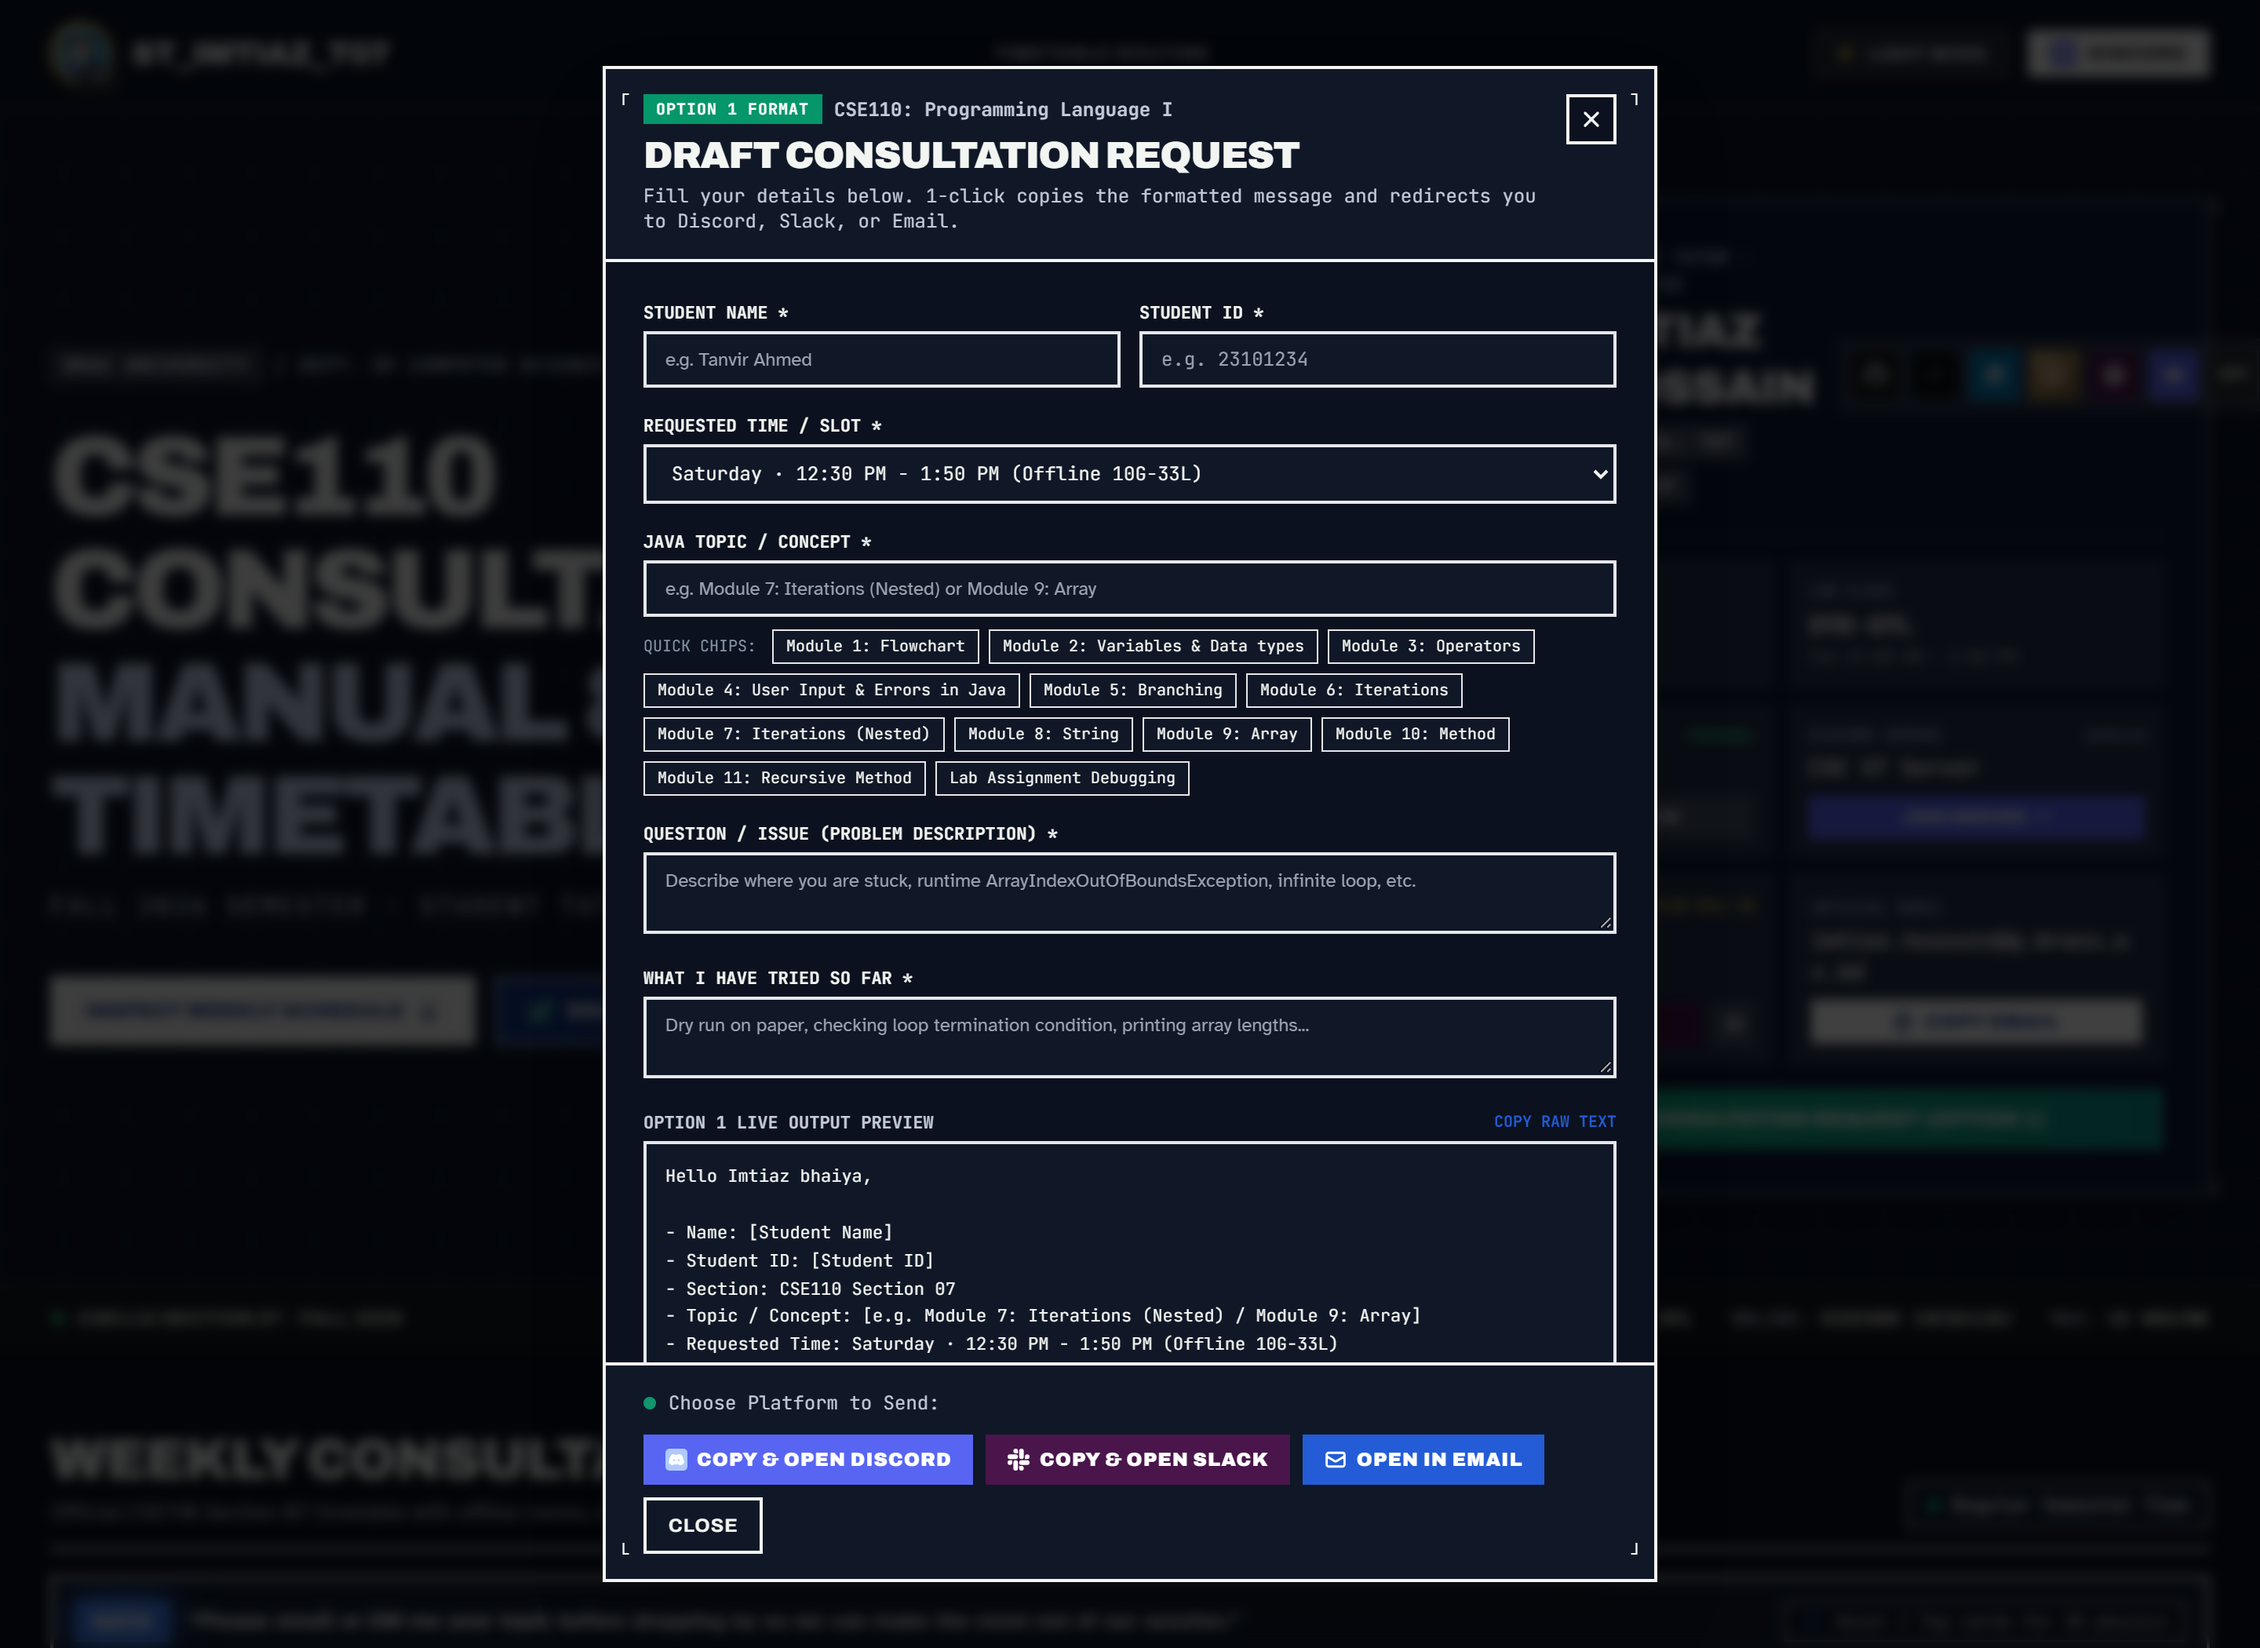
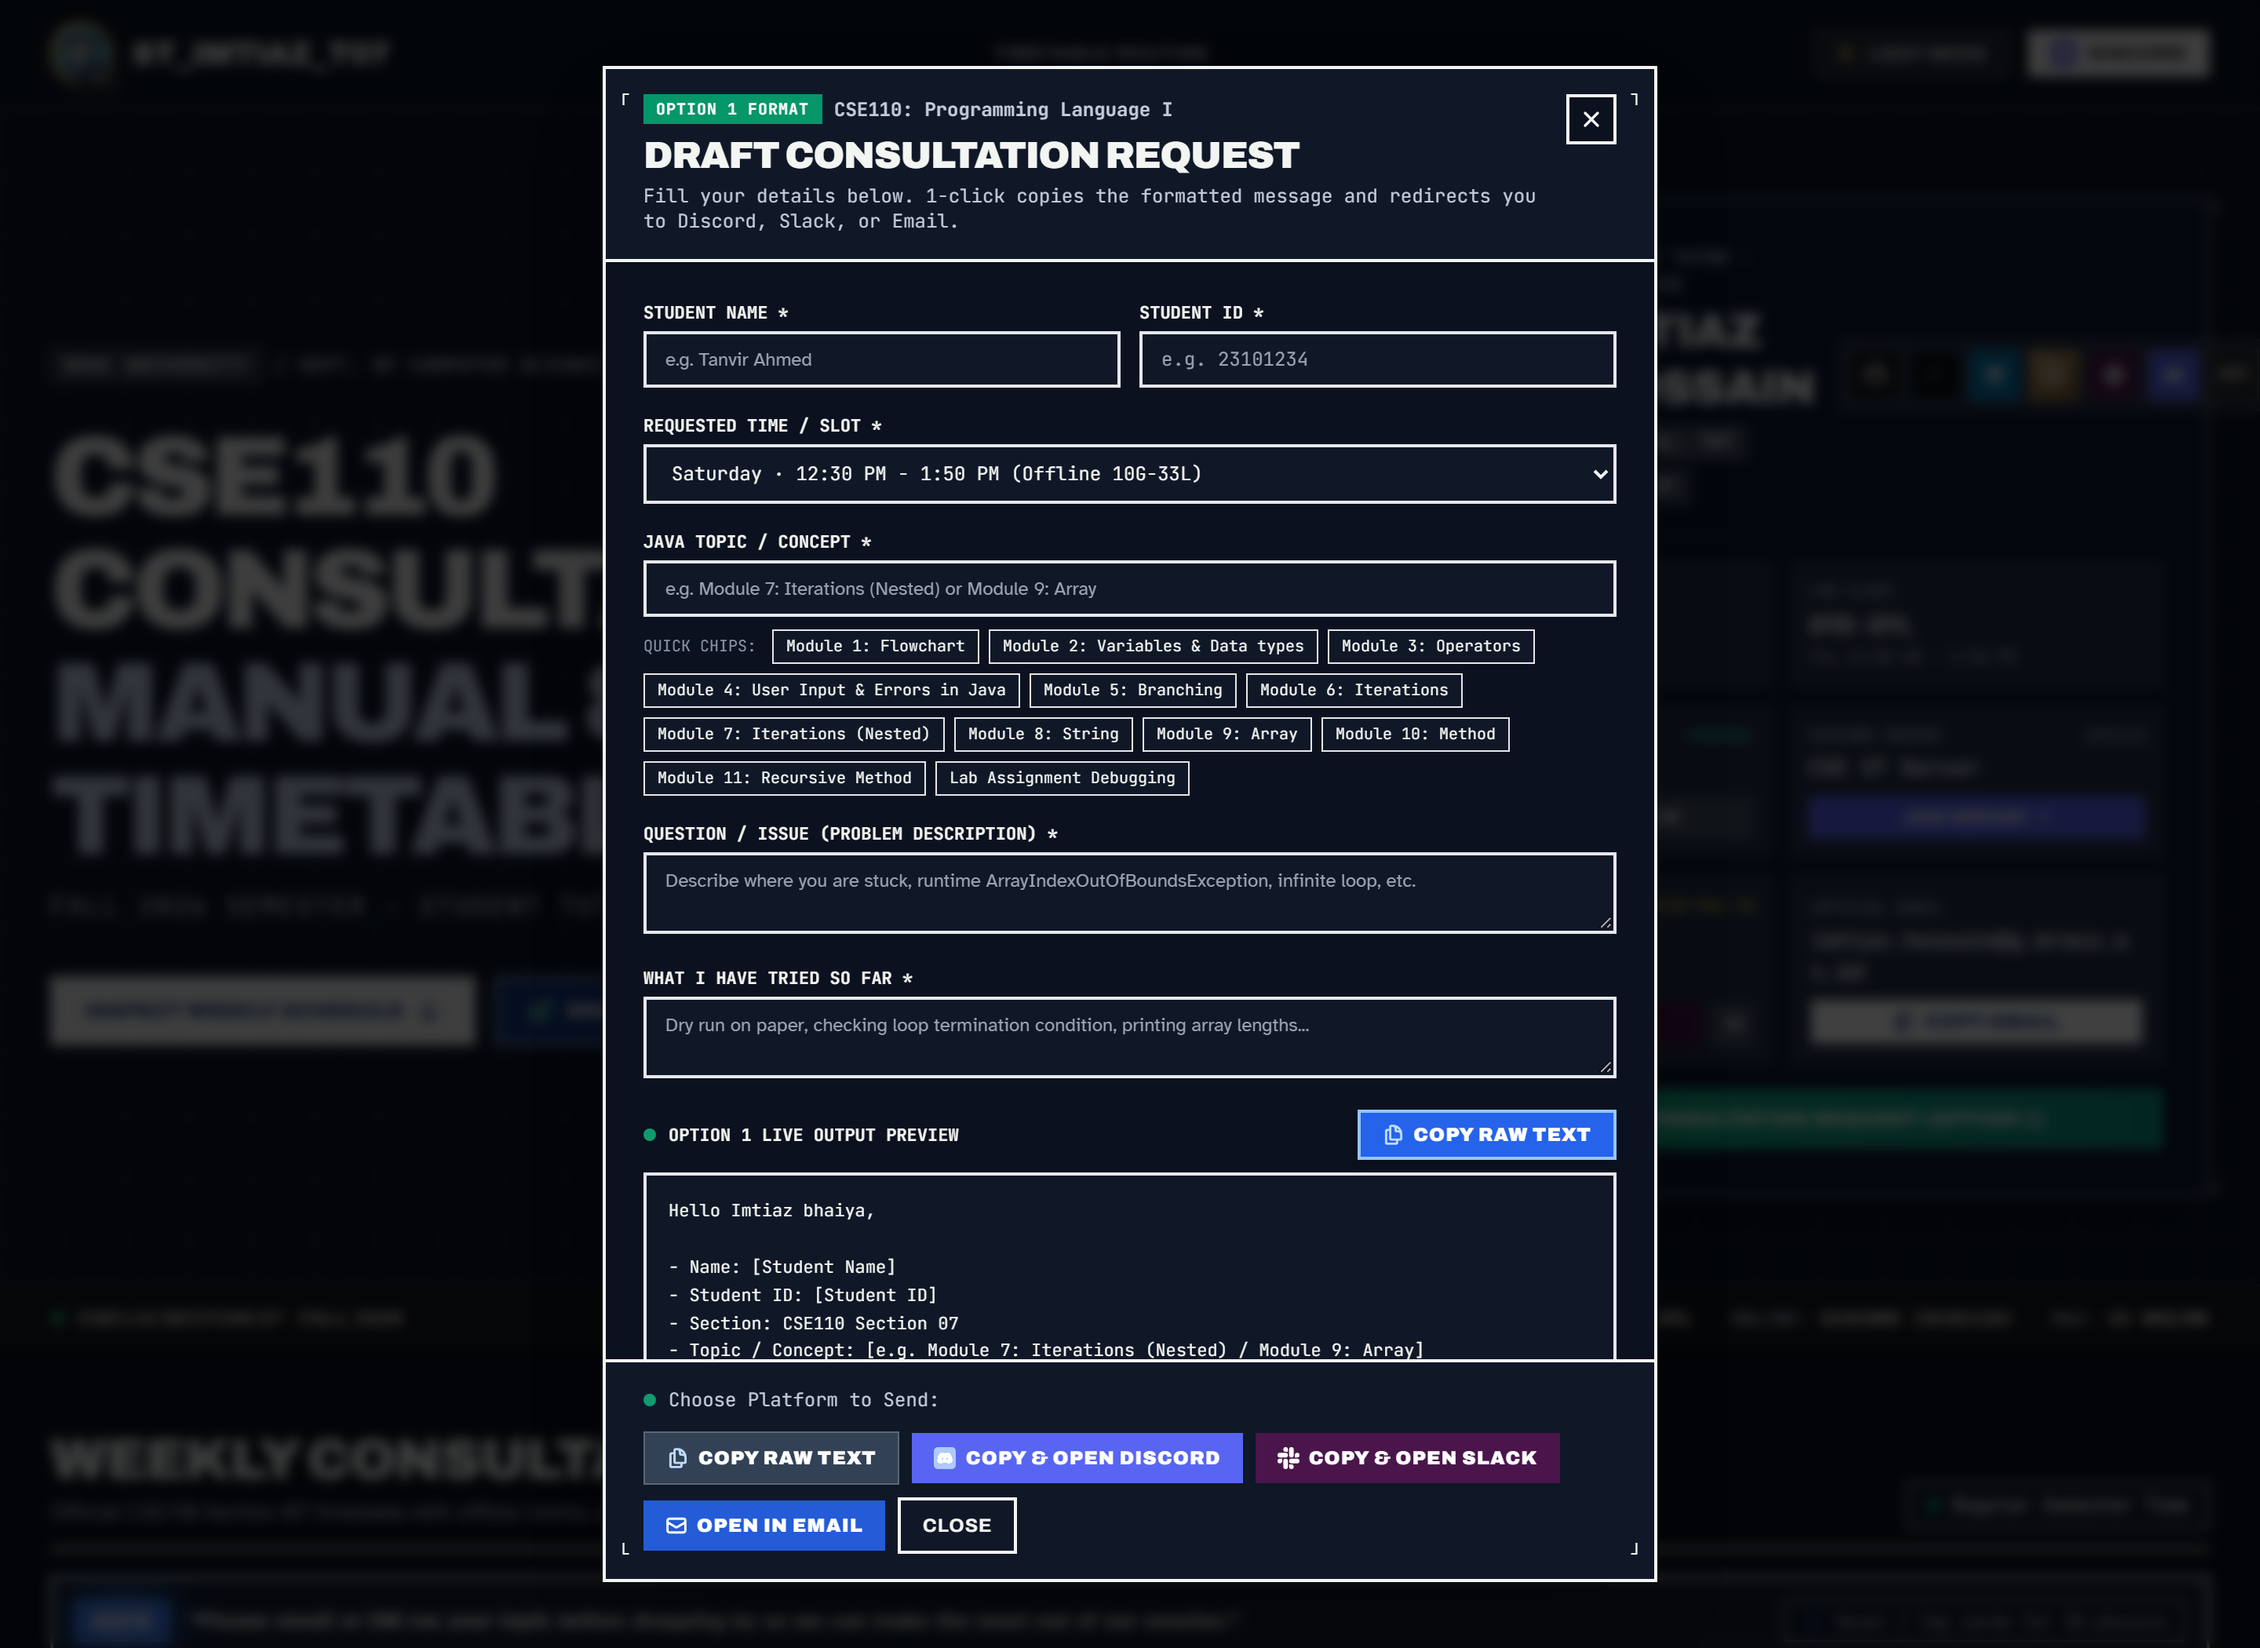
style: enhance visibility and styling of Copy Raw Text action button

Changed region(s): [[0.2812, 0.681, 0.7188, 0.9595], [0.5938, 0.65, 0.7188, 0.7119]]

diff --git a/src/App.tsx b/src/App.tsx
@@ -318,6 +318,7 @@ export default function App() {
   const [copiedEmail, setCopiedEmail] = useState(false);
   const [copiedDiscordId, setCopiedDiscordId] = useState(false);
   const [copiedSlackId, setCopiedSlackId] = useState(false);
+  const [copiedRawText, setCopiedRawText] = useState(false);
   const [copiedModalDiscordId, setCopiedModalDiscordId] = useState(false);
   const [copiedModalRoom, setCopiedModalRoom] = useState(false);
   const [mobileTab, setMobileTab] = useState<'cards' | 'table'>('cards');
@@ -370,7 +371,9 @@ export default function App() {
   const handleCopyOption1Text = () => {
     const text = generateOption1Message();
     navigator.clipboard.writeText(text);
+    setCopiedRawText(true);
     triggerToast('Copied Option 1 template to clipboard!');
+    setTimeout(() => setCopiedRawText(false), 2200);
   };
 
   const handleSendDiscord = () => {
@@ -1593,19 +1596,35 @@ export default function App() {
 
                 {/* Live Message Preview Box */}
                 <div>
-                  <div className="flex items-center justify-between mb-1">
-                    <span className="font-mono font-bold uppercase text-[11px] text-[var(--ink-2)]">
-                      Option 1 Live Output Preview
-                    </span>
+                  <div className="flex items-center justify-between mb-2">
+                    <div className="flex items-center gap-2">
+                      <span className="w-2 h-2 rounded-full bg-emerald-500 animate-pulse" />
+                      <span className="font-mono font-bold uppercase text-[11px] text-[var(--ink)]">
+                        Option 1 Live Output Preview
+                      </span>
+                    </div>
                     <button
                       type="button"
                       onClick={handleCopyOption1Text}
-                      className="text-[10px] font-mono font-bold uppercase text-[var(--blue)] hover:underline cursor-pointer"
+                      className="inline-flex items-center gap-1.5 px-3.5 py-1.5 rounded-xs font-display font-black text-xs uppercase tracking-wider bg-[#1d49a7] hover:bg-[#163a86] dark:bg-blue-600 dark:hover:bg-blue-500 text-white border-2 border-[#163a86] dark:border-blue-300 shadow-md active:scale-95 transition-all cursor-pointer"
+                      title="Copy raw formatted template to clipboard"
                     >
-                      Copy Raw Text
+                      {copiedRawText ? (
+                        <>
+                          <span className="w-2 h-2 rounded-full bg-emerald-400 animate-ping" />
+                          <span className="text-emerald-200">COPIED TO CLIPBOARD!</span>
+                        </>
+                      ) : (
+                        <>
+                          <svg className="w-3.5 h-3.5 text-blue-200" fill="none" viewBox="0 0 24 24" stroke="currentColor" strokeWidth={2.5}>
+                            <path strokeLinecap="round" strokeLinejoin="round" d="M15.75 17.25v3.375c0 .621-.504 1.125-1.125 1.125h-9.75a1.125 1.125 0 01-1.125-1.125V7.875c0-.621.504-1.125 1.125-1.125H6.75a9.06 9.06 0 011.5.124m7.5 10.376h3.375c.621 0 1.125-.504 1.125-1.125V11.25c0-4.46-3.243-8.161-7.5-8.876a9.06 9.06 0 00-1.5-.124H9.375c-.621 0-1.125.504-1.125 1.125v3.5m7.5 10.375H9.375a1.125 1.125 0 01-1.125-1.125v-9.25m12 6.625v-1.875a3.375 3.375 0 00-3.375-3.375h-1.5a1.125 1.125 0 01-1.125-1.125v-1.5a3.375 3.375 0 00-3.375-3.375H9.75" />
+                          </svg>
+                          <span>COPY RAW TEXT</span>
+                        </>
+                      )}
                     </button>
                   </div>
-                  <pre className="p-3 bg-[var(--paper-2)] border-2 border-[var(--ink)]/30 rounded-xs font-mono text-[11px] text-[var(--ink)] whitespace-pre-wrap leading-relaxed select-all overflow-x-auto">
+                  <pre className="p-3.5 bg-[var(--paper-2)] border-2 border-[var(--ink)]/40 rounded-xs font-mono text-[11px] text-[var(--ink)] whitespace-pre-wrap leading-relaxed select-all overflow-x-auto shadow-inner">
                     {generateOption1Message()}
                   </pre>
                 </div>
@@ -1619,6 +1638,18 @@ export default function App() {
                 </div>
 
                 <div className="flex flex-wrap items-center gap-2">
+                  {/* Copy Raw Text (Bottom Action Bar) */}
+                  <button
+                    type="button"
+                    onClick={handleCopyOption1Text}
+                    className="px-3.5 py-2 bg-[#163a86] hover:bg-[#122e6b] dark:bg-slate-700 dark:hover:bg-slate-600 text-white text-xs font-display font-black uppercase tracking-wider rounded-xs transition-all inline-flex items-center gap-1.5 shadow-sm active:scale-95 cursor-pointer border border-white/20"
+                  >
+                    <svg className="w-3.5 h-3.5 text-blue-200" fill="none" viewBox="0 0 24 24" stroke="currentColor" strokeWidth={2.5}>
+                      <path strokeLinecap="round" strokeLinejoin="round" d="M15.75 17.25v3.375c0 .621-.504 1.125-1.125 1.125h-9.75a1.125 1.125 0 01-1.125-1.125V7.875c0-.621.504-1.125 1.125-1.125H6.75a9.06 9.06 0 011.5.124m7.5 10.376h3.375c.621 0 1.125-.504 1.125-1.125V11.25c0-4.46-3.243-8.161-7.5-8.876a9.06 9.06 0 00-1.5-.124H9.375c-.621 0-1.125.504-1.125 1.125v3.5m7.5 10.375H9.375a1.125 1.125 0 01-1.125-1.125v-9.25m12 6.625v-1.875a3.375 3.375 0 00-3.375-3.375h-1.5a1.125 1.125 0 01-1.125-1.125v-1.5a3.375 3.375 0 00-3.375-3.375H9.75" />
+                    </svg>
+                    <span>{copiedRawText ? 'Copied Raw Text!' : 'Copy Raw Text'}</span>
+                  </button>
+
                   {/* Send via Discord */}
                   <button
                     type="button"
